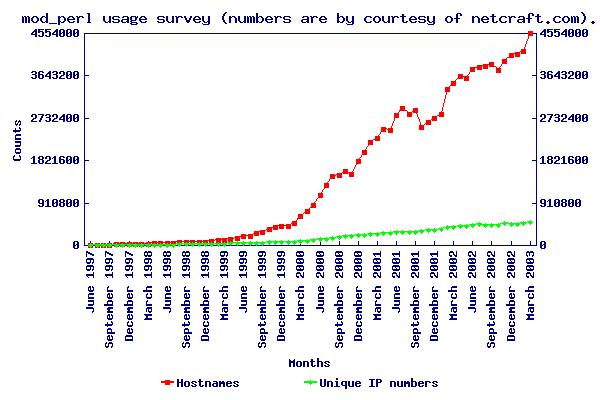
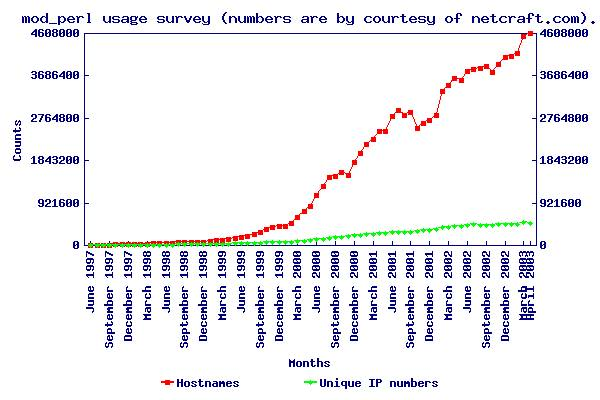
April 2003 updates
git-svn-id: https://svn.apache.org/repos/asf/perl/modperl/docs/trunk@67145 13f79535-47bb-0310-9956-ffa450edef68

diff --git a/src/outstanding/stats/netcraft.html b/src/outstanding/stats/netcraft.html
@@ -24,13 +24,14 @@ survey.
 </p>
 
 <!-- monthly reports can be retrieved from
-http://www.netcraft.com/survey/Reports/0304/mod_perl.txt, adjust the
+http://www.netcraft.com/survey/Reports/0305/mod_perl.txt, adjust the
 year/month if needed. used to be
 http://www.netcraft.com/survey/Reports/200206/mod_perl.txt till July
 2002 -->
 
 <table cellpadding="3" border="1" cellspacing="0">
 <tr><th>Survey</th><th>Hostnames</th><th>Unique IP Addresses</th></tr>
+<tr><td> April 2003     </td><td>4607873</td><td>486411</td></tr>
 <tr><td> March 2003     </td><td>4553109</td><td>491413</td></tr>
 <tr><td> February 2003  </td><td>4162825</td><td>462416</td></tr>
 <tr><td> January 2003   </td><td>4108930</td><td>458057</td></tr>

diff --git a/src/outstanding/stats/securityspace.html b/src/outstanding/stats/securityspace.html
@@ -7,12 +7,12 @@
 <body bgcolor="#ffffff">
 
 <p> SecuritySpace provides an <a
-href="http://www.securityspace.com/s_survey/data/man.200303/apachemods.html?mod=cGVybA==">Apache
+href="http://www.securityspace.com/s_survey/data/man.200304/apachemods.html?mod=cGVybA==">Apache
 Module Report on mod_perl</a> comprising statistics and a graph based
 on the data collected by <a
 href="http://www.securityspace.com/">www.securityspace.com</a>. They
 also feature <a
-href="http://www.securityspace.com/s_survey/data/man.200303/apachemods.html">a
+href="http://www.securityspace.com/s_survey/data/man.200304/apachemods.html">a
 comparison</a> between all the Apache modules they survey.  </p>
 
 </body>
